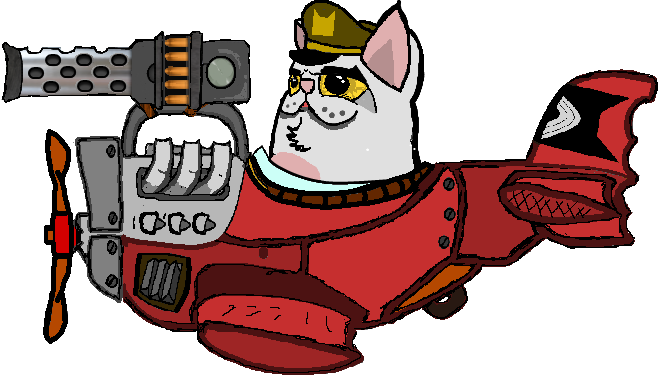
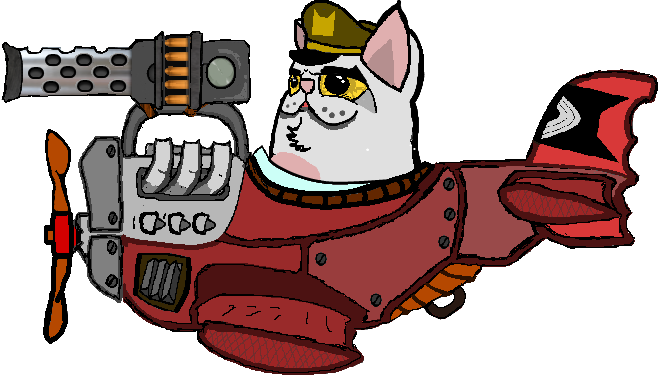
Added/fixed offsets, sizes, and textures.

Changed region(s): [[0.2736, 0.44, 0.9726, 0.9973], [0.0608, 0.352, 0.152, 0.5573]]

diff --git a/Bullet-Inferno/src/se/dat255/bulletinferno/model/weapon/WeaponDefinitionImpl.java b/Bullet-Inferno/src/se/dat255/bulletinferno/model/weapon/WeaponDefinitionImpl.java
@@ -21,12 +21,12 @@ public enum WeaponDefinitionImpl implements WeaponDefinition {
 	 * reloadTime, projectile, offset, projectileVelocity
 	 */
 	
-	STANDARD_MACHINE_GUN(0.2f, ProjectileType.VELOCITY_BULLET, 10f, new Vector2(2.26f, 1f)),
-	STANDARD_MINI_GUN(0.05f, ProjectileType.ROUND_BULLET, 8f, new Vector2(2.46f, 1.5f)),
-	STANDARD_PLASMA_GUN(0.25f, ProjectileType.PLASMA, 10f, new Vector2(1.7f,1f)),
+	STANDARD_MACHINE_GUN(0.2f, ProjectileType.VELOCITY_BULLET, 10f, new Vector2(0.8f, 0.4f)),
+	STANDARD_MINI_GUN(0.05f, ProjectileType.ROUND_BULLET, 8f, new Vector2(0.8f, 0.6f)),
+	STANDARD_PLASMA_GUN(0.25f, ProjectileType.PLASMA, 10f, new Vector2(0.8f,0.5f)),
 	
-	HEAVY_LASER_CANNON(1f, ProjectileType.LASER, 10f, new Vector2(5f,2f)),
-	HEAVY_EGG_CANNON(1f, ProjectileType.EGG, 10f, new Vector2(5f,2.5f)),
+	HEAVY_LASER_CANNON(1f, ProjectileType.LASER, 30f, new Vector2(1.2f,0.65f)),
+	HEAVY_EGG_CANNON(1f, ProjectileType.EGG, 10f, new Vector2(1.2f,0.65f)),
 	
 	LASER_GUN(0.5f, ProjectileType.LASER, 10f, new Vector2(5f,2f)),
 	DISORDERER(0.5f, ProjectileType.PLASMA, 10f, new Vector2(1f,0.5f)),
@@ -74,7 +74,7 @@ WeaponDefinitionImpl(float reloadTime, ProjectileType projectileType,
 	@Override
 	public Weapon createWeapon(PhysicsEnvironment physics, WeaponEnvironment weapons, 
 			Vector2 offset) {
-		if (this == MISSILE_LAUNCHER) {
+		if (this == HEAVY_LASER_CANNON || this == HEAVY_EGG_CANNON) {
 			return new CooldownWeaponImpl(physics, weapons, this, reloadingTime, projectileType, 
 					projectileSpeed, offset);
 

diff --git a/Bullet-Inferno/src/se/dat255/bulletinferno/view/PlayerShipLoadoutView.java b/Bullet-Inferno/src/se/dat255/bulletinferno/view/PlayerShipLoadoutView.java
@@ -48,17 +48,17 @@ public class PlayerShipLoadoutView implements Renderable {
 	@Override
 	public void render(SpriteBatch batch, Camera viewport) {
 		lastShipPosition = ship.getPosition();
-		float x = lastShipPosition.x - ship.getDimensions().x / 2;
-		float y = lastShipPosition.y - ship.getDimensions().y / 2;
+		float x = lastShipPosition.x;
+		float y = lastShipPosition.y;
 
 		// Standard weapon
-		standardWeaponSprite.setPosition(x + standardWeapon.getOffset().x,
-				y + standardWeapon.getOffset().y + standardWeaponSprite.getHeight());
+		standardWeaponSprite.setPosition(x + standardWeapon.getOffset().x - standardWeapon.getDimensions().y/2,
+				y + standardWeapon.getOffset().y - standardWeapon.getDimensions().y/2);
 		standardWeaponSprite.draw(batch);
 
 		// Heavy weapon
-		heavyWeaponSprite.setPosition(x + heavyWeapon.getOffset().x,
-				y + heavyWeapon.getOffset().y + heavyWeaponSprite.getHeight());
+		heavyWeaponSprite.setPosition(x + heavyWeapon.getOffset().x - heavyWeapon.getDimensions().y/2,
+				y + heavyWeapon.getOffset().y - heavyWeapon.getDimensions().y/2);
 		heavyWeaponSprite.draw(batch);
 	}
 

diff --git a/Bullet-Inferno/src/se/dat255/bulletinferno/model/entity/PlayerShipImpl.java b/Bullet-Inferno/src/se/dat255/bulletinferno/model/entity/PlayerShipImpl.java
@@ -24,7 +24,7 @@ import com.badlogic.gdx.physics.box2d.Shape;
 public class PlayerShipImpl implements PlayerShip, Timerable {
 
 	public enum ShipType implements Teamable {
-		PLAYER_DEFAULT(new Vector2[] { new Vector2(1 / 2f, 2 / 4.5f), new Vector2(1 / 2f, -2 / 5f) });
+		PLAYER_DEFAULT(new Vector2[] { new Vector2(0.225f, 35/100f), new Vector2(0.25f, -58/100f) });
 
 		private final Vector2[] weaponPositionModifier;
 

diff --git a/Bullet-Inferno/src/se/dat255/bulletinferno/view/PlayerShipView.java b/Bullet-Inferno/src/se/dat255/bulletinferno/view/PlayerShipView.java
@@ -76,9 +76,12 @@ public class PlayerShipView implements Renderable, Timerable {
 			float x = lastShipPosition.x - shipDimensions.x / 2;
 			float y = lastShipPosition.y - shipDimensions.y / 2;
 
+		
+			
 			shipSprite.setPosition(x, y);
 			shipSprite.draw(batch);
-			
+				
+
 			// Make sure weapons are rendered on top of the ship
 			loadoutView.render(batch, viewport);
 
